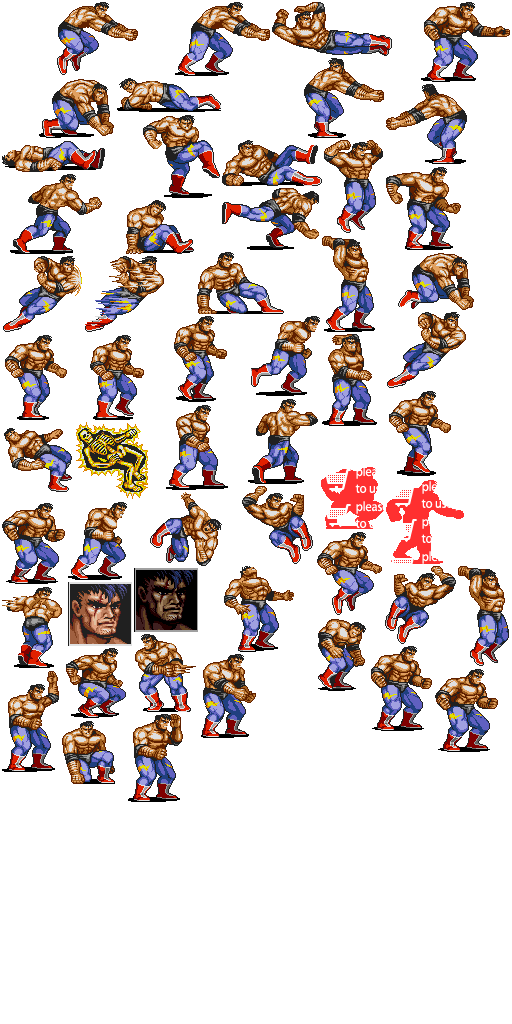
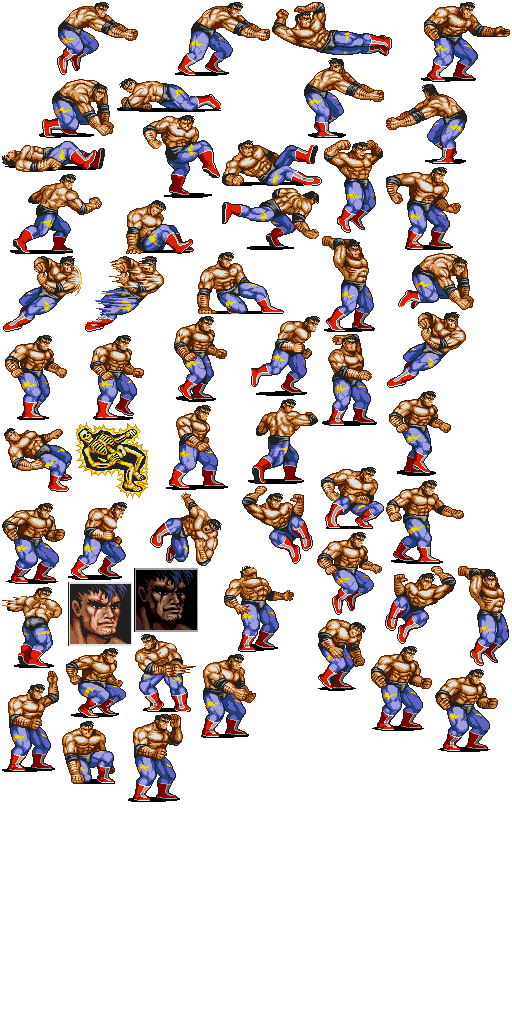
thunder tackle and fixed texture atlas

Changed region(s): [[0.625, 0.4375, 0.875, 0.5625], [0.875, 0.5, 0.9062, 0.5312]]

diff --git a/html/js/player.js b/html/js/player.js
@@ -660,6 +660,7 @@ Max.RIGHT_PUNCH        = 4;
 Max.HAMMER_PUNCH       = 5;
 Max.SUPER_HAMMER_PUNCH = 6;
 Max.KNUCKLE_BOMB       = 7;
+Max.THUNDER_TACKLE     = 8;
 Max.DAMAGED            = 16;
 Max.FALL               = 17;
 Max.RECOVER            = 18;
@@ -735,6 +736,16 @@ function Max(game, options) {
     'knuckle-bomb-2',
     'knuckle-bomb-3'
   ], 16, false);
+  // thunder-tackle-animation
+  self._sprite.animations.add('thunder-tackle', [
+    'thunder-tackle-0',
+    'thunder-tackle-0',
+    'thunder-tackle-1',
+    'thunder-tackle-3',
+    'thunder-tackle-3',
+    'thunder-tackle-1'
+  ], 14, false); 
+
   // add the sprite to sprite group for z-sorting
   if (typeof options.playerSpriteGroup === 'object') {
     var group = options.playerSpriteGroup;
@@ -747,21 +758,21 @@ function Max(game, options) {
     self._setState(Max.IDLE);
   }
 
-  // jump substates (crouch=0, jump=1, land=2)
+  // state helper variables
+  self._prevState = 0; 
+  self._velocityOnStart = {x: 0, y: 0};
+  self._positionOnStart = {x: self._sprite.x, y: self._sprite.y};
+  self._currentAnimation = null;
+
+  // FIXME redo jump state
   self._jumpState  = -1;
   self._crouchTime = -1;
   self._jumpTime   = -1;
   self._landTime   = -1;
-  self._velocityOnJump = {x: 0, y: 0};
-  self._positionOnJump = {x: 0, y: 0};
 
-  // state helper variables
+  // FIXME to be removed
   self._stateStartTime = new Date().getTime();
   self._stateStartPosition = position;
-  self._currentAnimation = null;
-
-  // remember the last state
-  self._prevState = 0; 
 
 }
 
@@ -770,10 +781,10 @@ Max.prototype._clearState = function() {
   self._lockSpriteToBody = true;
   self._shadow.visible = false;
   self._textOffset = {x: Max.TEXT_OFFSET_X, y: Max.TEXT_OFFSET_Y};
-  self._faceProperDirection();
   if (self._input) {
     self._keystate = self._input.keystate;
   }
+  self._faceProperDirection();
 };
 
 Max.prototype._setState = function(state) {
@@ -784,7 +795,7 @@ Max.prototype._setState = function(state) {
 
   // all states but idle and walk should be rebroadcast on repeats
   if (self._state !== Max.IDLE && self._state !== Max.WALK) {
-    self._lastStateInternal = Player.CHANGED_STATE;
+    self._lastStateInternal = Player.CHANGED_STATE; // FIXME
   }
 
   switch (state) {
@@ -816,13 +827,8 @@ Max.prototype._setState = function(state) {
       self._jumpState = 0;
       self._crouchTime = new Date().getTime();
 
-      self._positionOnJump = { 
-        x: self._sprite.x,
-        y: self._sprite.y
-      };  
-
       self._move();
-      self._velocityOnJump = {
+      self._velocityOnStart = {
         x: self._worldBody.velocity.x,
         y: self._worldBody.velocity.y
       };
@@ -847,10 +853,28 @@ Max.prototype._setState = function(state) {
       self._state = Max.KNUCKLE_BOMB;
       self._currentAnimation = self._sprite.animations.play('knuckle-bomb');
       self._move(Max.SPEED/2);
-      self._velocityOnJump = {
+      self._velocityOnStart = {
         x: self._worldBody.velocity.x,
         y: self._worldBody.velocity.y
       };
+      break;
+    case Max.THUNDER_TACKLE:
+      self._state = Max.THUNDER_TACKLE;
+
+      // get vertical velocity for tackle
+      if (self._keystate & Player.UP_PRESSED !== self._keystate & Player.DOWN_PRESSED) {
+      }
+
+      var dy = 1.25*Max.SPEED;
+      self._velocityOnStart.y = 0;
+      if (self._keystate & Player.UP_PRESSED) self._velocityOnStart.y -= dy;
+      if (self._keystate & Player.DOWN_PRESSED) self._velocityOnStart.y += dy;
+
+      var dx = 2.5*Max.SPEED;
+      self._velocityOnStart.x = (self._sprite.scale.x < 0) ? -dx : dx;
+
+      self._currentAnimation = self._sprite.animations.play('thunder-tackle');
+
       break;
     default:
       // FIXME
@@ -885,7 +909,7 @@ Max.prototype._setNextState = function(stateA, stateB, stateC) {
   var self = this;
 
   if (self._isClient) {
-    stateA = stateA || Max.KNUCKLE_BOMB;
+    stateA = stateA || Max.THUNDER_TACKLE;
     stateB = stateB || Max.CHOP;
     stateC = stateC || Max.JUMP;
     if (self._input.buffer.length > 0) {
@@ -929,8 +953,8 @@ Max.prototype._update = function(time) {
     case Max.JUMP:
 
       if (self._jumpState > 0) {
-        self._worldBody.velocity.x = self._velocityOnJump.x;
-        self._worldBody.velocity.y = self._velocityOnJump.y;
+        self._worldBody.velocity.x = self._velocityOnStart.x;
+        self._worldBody.velocity.y = self._velocityOnStart.y;
         self._sprite.x = Math.floor(self._worldBody.x);
         self._sprite.y = Math.floor(self._worldBody.y);
       }
@@ -989,13 +1013,23 @@ Max.prototype._update = function(time) {
       break;
 
     case Max.KNUCKLE_BOMB:
-      self._worldBody.velocity.x = self._velocityOnJump.x;
-      self._worldBody.velocity.y = self._velocityOnJump.y;
+      self._worldBody.velocity.x = self._velocityOnStart.x;
+      self._worldBody.velocity.y = self._velocityOnStart.y;
       if (!self._currentAnimation.isPlaying) {
         self._setNextState();
       }
       break;
     
+    case Max.THUNDER_TACKLE:
+      if (self._sprite.frameName !== 'thunder-tackle-0') {
+        self._shadow.visible = true;
+        self._worldBody.velocity.x = self._velocityOnStart.x;
+        self._worldBody.velocity.y = self._velocityOnStart.y;
+      }
+      if (!self._currentAnimation.isPlaying) {
+        self._setNextState();
+      }
+      break;
 
   }
 
